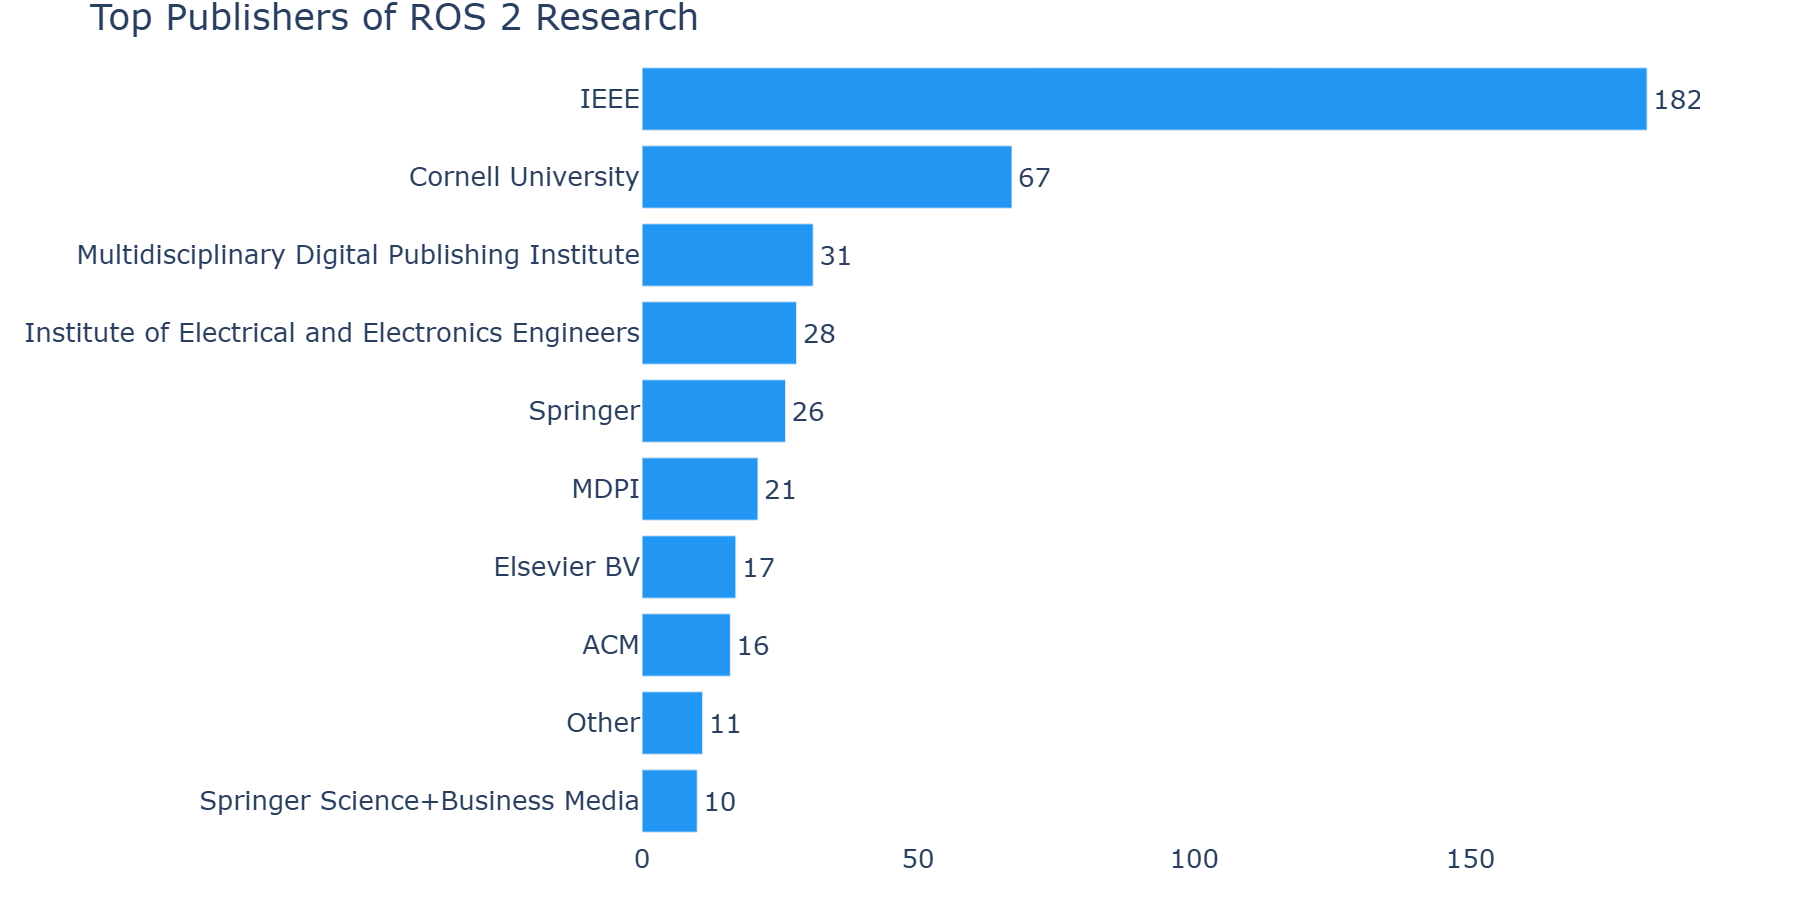
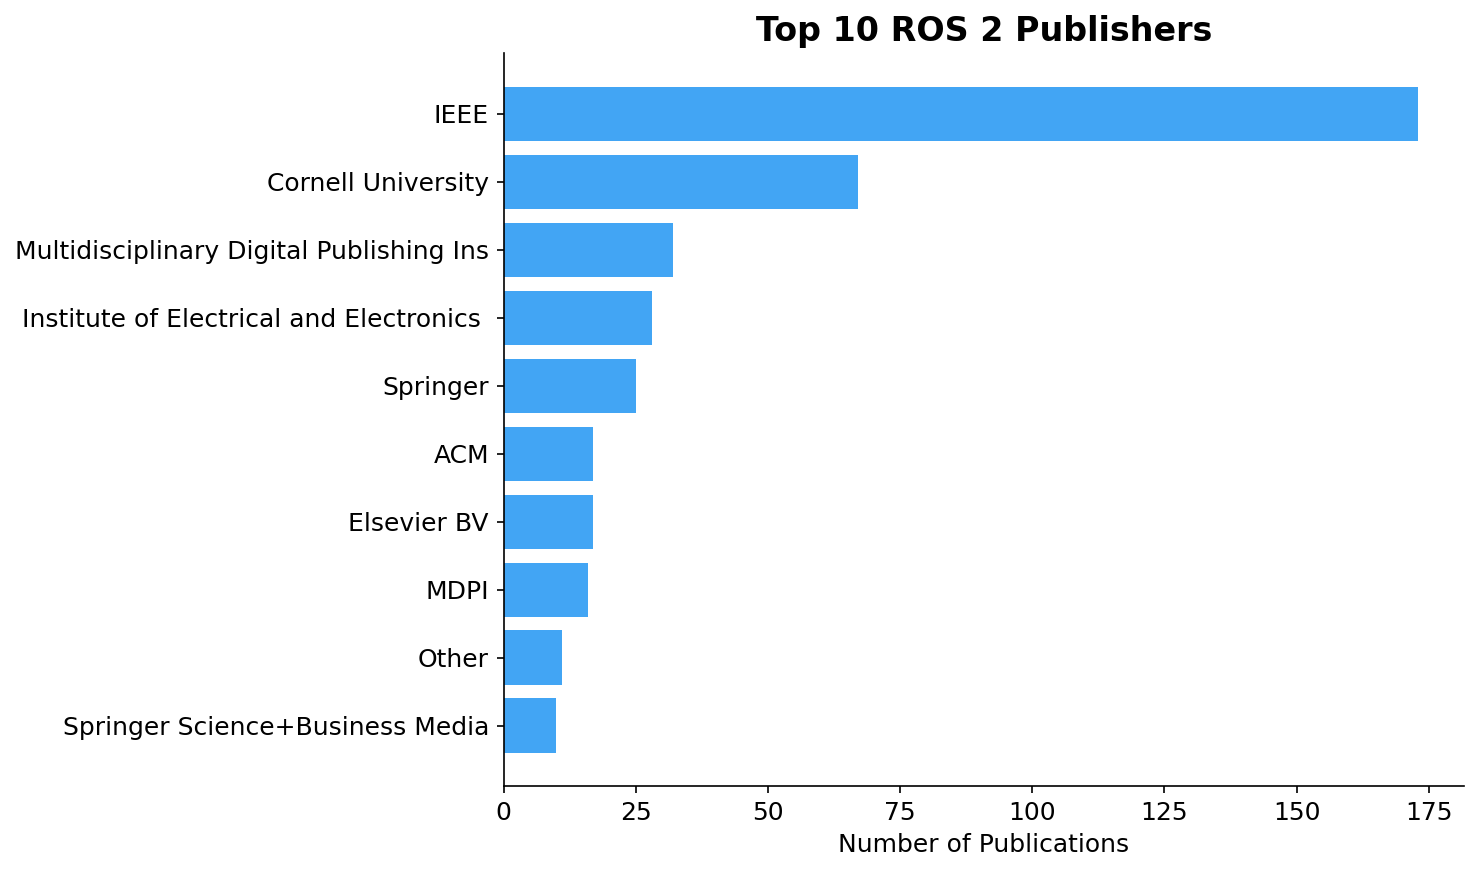
v26 figures + stats

diff --git a/index.html b/index.html
@@ -3,10 +3,20 @@
 <head>
   <meta charset="utf-8">
   <meta name="description"
-        content="ROS 2 in a Nutshell: A Survey - A comprehensive survey of the Robot Operating System 2 ecosystem covering 8,200+ publications.">
+        content="ROS 2 in a Nutshell: A Survey - A comprehensive survey of the Robot Operating System 2 ecosystem covering 8,000+ publications.">
   <meta name="keywords" content="ROS 2, Robot Operating System, Robotics, Survey, DDS, Real-Time, Middleware">
   <meta name="viewport" content="width=device-width, initial-scale=1">
   <title>ROS 2 in a Nutshell: A Survey</title>
+
+  <!-- Open Graph -->
+  <meta property="og:title" content="ROS 2 in a Nutshell: A Survey">
+  <meta property="og:description" content="Comprehensive survey of ROS 2 covering 8,000+ publications, 176 packages, and a curated research database.">
+  <meta property="og:type" content="website">
+  <meta property="og:url" content="https://asmbatati.github.io/awesome-ros/">
+  <meta name="twitter:card" content="summary_large_image">
+  <meta name="twitter:title" content="ROS 2 in a Nutshell: A Survey">
+  <meta name="twitter:description" content="Comprehensive survey of ROS 2 covering 8,000+ publications and a curated research database.">
+  <link rel="icon" type="image/svg+xml" href="./static/images/favicon.svg">
 
   <link href="https://fonts.googleapis.com/css?family=Google+Sans|Noto+Sans|Castoro"
         rel="stylesheet">
@@ -141,12 +151,20 @@
                   <span>Database</span>
                 </a>
               </span>
-              <!-- <span class="link-block">
-                <a href="#" class="external-link button is-normal is-rounded is-dark">
+              <span class="link-block">
+                <a href="https://github.com/asmbatati/awesome-ros"
+                   class="external-link button is-normal is-rounded is-dark">
                   <span class="icon"><i class="fab fa-github"></i></span>
-                  <span>Code</span>
+                  <span>Dataset Repo</span>
                 </a>
-              </span> -->
+              </span>
+              <span class="link-block">
+                <a href="https://github.com/asmbatati/awesome-ros/blob/main/CONTRIBUTING.md"
+                   class="external-link button is-normal is-rounded is-dark">
+                  <span class="icon"><i class="fas fa-hands-helping"></i></span>
+                  <span>Contribute</span>
+                </a>
+              </span>
             </div>
           </div>
         </div>
@@ -162,13 +180,13 @@
       <div class="columns is-centered is-multiline">
         <div class="column is-3">
           <div class="stat-card blue">
-            <div class="stat-number">8,255</div>
+            <div class="stat-number">8,033</div>
             <div class="stat-label">Papers Surveyed</div>
           </div>
         </div>
         <div class="column is-3">
           <div class="stat-card green">
-            <div class="stat-number">1,002</div>
+            <div class="stat-number">960</div>
             <div class="stat-label">ROS 2 Publications</div>
           </div>
         </div>
@@ -270,7 +288,7 @@
   <div class="container is-max-desktop">
     <h2 class="title is-3 has-text-centered">Database Insights</h2>
     <p class="has-text-centered" style="margin-bottom:1.5rem;">
-      Quantitative analysis from our curated database of 8,255 ROS publications.
+      Quantitative analysis from our curated database of 8,033 ROS publications.
     </p>
 
     <div class="columns is-centered">
@@ -320,6 +338,15 @@
         </div>
       </div>
     </div>
+
+    <div class="columns is-centered">
+      <div class="column is-full">
+        <div class="figure-container">
+          <img src="./static/images/subdomains.png" alt="Research Subdomains">
+          <p class="figure-caption">ROS 2 research subdomain distribution across the taxonomy.</p>
+        </div>
+      </div>
+    </div>
   </div>
 </section>
 
@@ -330,11 +357,12 @@
     <h2 class="title is-3 has-text-centered">Key Findings</h2>
     <div class="content has-text-justified">
       <ul>
-        <li><strong>ROS 2 adoption is accelerating:</strong> ROS 2 distributions collectively account for nearly half of all ROS downloads since 2023, with over 1,000 ROS 2-focused publications indexed in our database.</li>
+        <li><strong>ROS 2 adoption is accelerating:</strong> ROS 2 distributions collectively account for nearly half of all ROS downloads since 2023, with 960 ROS 2-focused publications indexed in our database of 8,033 papers.</li>
         <li><strong>Real-time remains an open frontier:</strong> While executors, QoS policies, and PREEMPT_RT integration improve predictability, end-to-end determinism depends on OS configuration, DDS vendor, and executor design. SROS2 adds 0.5&ndash;2 ms per hop.</li>
         <li><strong>The readiness paradox:</strong> ROS 2's architecture surpasses ROS 1, but DDS discovery storms, vendor-specific QoS semantics, and multicast tuning difficulties mean deployment complexity persists. Zenoh (Tier-1 RMW since Jazzy) reduces discovery overhead by 97&ndash;99%.</li>
         <li><strong>Safety-critical domains are underrepresented:</strong> Navigation/SLAM (~28%) and manipulation (~18%) dominate, while surgical robotics and aerospace account for &lt;5% combined.</li>
         <li><strong>Ecosystem growth:</strong> 176 curated community packages span perception, planning, control, simulation, and fleet management.</li>
+        <li><strong>Community-maintained dataset:</strong> The full dataset is publicly available on <a href="https://github.com/asmbatati/awesome-ros" style="color:#2196F3;">GitHub</a> under CC-BY-4.0, welcoming community contributions.</li>
       </ul>
     </div>
   </div>
@@ -358,11 +386,14 @@
 <footer class="footer">
   <div class="container">
     <div class="content has-text-centered">
-      <a class="icon-link" href="#">
+      <a class="icon-link" href="https://www.preprints.org/manuscript/202410.1204">
         <i class="fas fa-file-pdf"></i>
       </a>
       <a class="icon-link" href="https://ric.psu.edu.sa/riotu/ros/">
         <i class="fas fa-database"></i>
+      </a>
+      <a class="icon-link" href="https://github.com/asmbatati/awesome-ros">
+        <i class="fab fa-github"></i>
       </a>
     </div>
     <div class="columns is-centered">

diff --git a/generate_figures.py b/generate_figures.py
@@ -1,0 +1,212 @@
+"""
+Generate project page figures from v26 dataset.
+Outputs PNGs to static/images/ and stats.json.
+"""
+import csv
+import json
+import os
+from collections import Counter
+
+import matplotlib
+matplotlib.use("Agg")
+import matplotlib.pyplot as plt
+import matplotlib.ticker as mticker
+import numpy as np
+
+SRC = r"c:\Users\asmbatati\Desktop\ros_survey_revision\data\ROS2 Related Works_v26.csv"
+FW_SRC = r"c:\Users\asmbatati\Desktop\ros_survey_revision\data\ros2pkgs.csv"
+OUT = os.path.join(os.path.dirname(__file__), "static", "images")
+os.makedirs(OUT, exist_ok=True)
+
+# --- Load data ---
+with open(SRC, encoding="utf-8") as f:
+    rows = list(csv.DictReader(f))
+
+ros1 = [r for r in rows if r.get("ROS Version", "").strip().upper() in ("ROS1", "ROS 1")]
+ros2 = [r for r in rows if r.get("ROS Version", "").strip().upper() in ("ROS2", "ROS 2")]
+both = [r for r in rows if r.get("ROS Version", "").strip().upper() == "BOTH"]
+
+# Color palette
+BLUE = "#2196F3"
+GREEN = "#4CAF50"
+ORANGE = "#FF9800"
+TEAL = "#009688"
+PINK = "#E91E63"
+PURPLE = "#9C27B0"
+
+plt.rcParams.update({
+    "font.family": "sans-serif",
+    "font.size": 12,
+    "axes.spines.top": False,
+    "axes.spines.right": False,
+})
+
+# ============================================================
+# 1. Publication Growth (stacked bar)
+# ============================================================
+years = sorted(set(r.get("Year", "").strip() for r in rows if r.get("Year", "").strip().isdigit()))
+years = [y for y in years if 2009 <= int(y) <= 2025]
+
+ros1_by_year = Counter(r["Year"].strip() for r in ros1 if r["Year"].strip() in years)
+ros2_by_year = Counter(r["Year"].strip() for r in ros2 if r["Year"].strip() in years)
+both_by_year = Counter(r["Year"].strip() for r in both if r["Year"].strip() in years)
+
+r1_counts = [ros1_by_year.get(y, 0) for y in years]
+r2_counts = [ros2_by_year.get(y, 0) + both_by_year.get(y, 0) for y in years]
+
+fig, ax = plt.subplots(figsize=(12, 5))
+x = np.arange(len(years))
+ax.bar(x, r1_counts, label="ROS 1", color=BLUE, alpha=0.85)
+ax.bar(x, r2_counts, bottom=r1_counts, label="ROS 2", color=GREEN, alpha=0.85)
+ax.set_xticks(x)
+ax.set_xticklabels(years, rotation=45, ha="right")
+ax.set_ylabel("Number of Publications")
+ax.set_title("ROS Publication Growth (2009–2025)", fontsize=16, fontweight="bold")
+ax.legend()
+plt.tight_layout()
+fig.savefig(os.path.join(OUT, "publication_growth.png"), dpi=150, bbox_inches="tight")
+plt.close()
+print("1/7 publication_growth.png")
+
+# ============================================================
+# 2. ROS 2 Adoption Rate
+# ============================================================
+adoption_years = [y for y in years if int(y) >= 2017]
+total_by_year = {y: ros1_by_year.get(y, 0) + ros2_by_year.get(y, 0) + both_by_year.get(y, 0) for y in adoption_years}
+ros2_pct = [100 * (ros2_by_year.get(y, 0) + both_by_year.get(y, 0)) / max(total_by_year[y], 1) for y in adoption_years]
+
+fig, ax = plt.subplots(figsize=(10, 5))
+ax.plot(adoption_years, ros2_pct, marker="o", color=GREEN, linewidth=2.5, markersize=8)
+ax.fill_between(adoption_years, ros2_pct, alpha=0.15, color=GREEN)
+ax.set_ylabel("ROS 2 Share (%)")
+ax.set_title("ROS 2 Adoption Rate (% of All Publications)", fontsize=16, fontweight="bold")
+ax.yaxis.set_major_formatter(mticker.PercentFormatter())
+ax.set_ylim(0, max(ros2_pct) * 1.2)
+plt.tight_layout()
+fig.savefig(os.path.join(OUT, "ros2_adoption.png"), dpi=150, bbox_inches="tight")
+plt.close()
+print("2/7 ros2_adoption.png")
+
+# ============================================================
+# 3. ROS 2 Research Domains (donut)
+# ============================================================
+ros2_all = ros2 + both
+domain_counts = Counter(r.get("Research_Domain", "").strip() for r in ros2_all if r.get("Research_Domain", "").strip())
+labels_d = list(domain_counts.keys())
+sizes_d = list(domain_counts.values())
+colors_d = [BLUE, GREEN, ORANGE, PINK][:len(labels_d)]
+
+fig, ax = plt.subplots(figsize=(8, 8))
+wedges, texts, autotexts = ax.pie(
+    sizes_d, labels=labels_d, autopct="%1.1f%%", startangle=90,
+    colors=colors_d, pctdistance=0.78, textprops={"fontsize": 11}
+)
+centre_circle = plt.Circle((0, 0), 0.55, fc="white")
+ax.add_artist(centre_circle)
+ax.set_title("ROS 2 Research Domains", fontsize=16, fontweight="bold", pad=20)
+plt.tight_layout()
+fig.savefig(os.path.join(OUT, "ros2_domains.png"), dpi=150, bbox_inches="tight")
+plt.close()
+print("3/7 ros2_domains.png")
+
+# ============================================================
+# 4. Article Type Distribution (pie)
+# ============================================================
+type_counts = Counter(r.get("Contribution_Type", "").strip() for r in ros2_all if r.get("Contribution_Type", "").strip())
+type_labels = {"APP": "Application", "CORE": "Core ROS", "ECO": "Ecosystem"}
+labels_t = [type_labels.get(k, k) for k in type_counts.keys()]
+sizes_t = list(type_counts.values())
+colors_t = [BLUE, ORANGE, TEAL][:len(labels_t)]
+
+fig, ax = plt.subplots(figsize=(7, 7))
+ax.pie(sizes_t, labels=labels_t, autopct="%1.1f%%", startangle=90,
+       colors=colors_t, textprops={"fontsize": 13})
+ax.set_title("ROS 2 Contribution Types", fontsize=16, fontweight="bold", pad=20)
+plt.tight_layout()
+fig.savefig(os.path.join(OUT, "article_types.png"), dpi=150, bbox_inches="tight")
+plt.close()
+print("4/7 article_types.png")
+
+# ============================================================
+# 5. Top Publishers (horizontal bar)
+# ============================================================
+pub_counts = Counter(r.get("Publisher", "").strip() for r in ros2_all if r.get("Publisher", "").strip())
+top_pubs = pub_counts.most_common(10)
+pub_names = [p[0][:40] for p in reversed(top_pubs)]
+pub_vals = [p[1] for p in reversed(top_pubs)]
+
+fig, ax = plt.subplots(figsize=(10, 6))
+ax.barh(pub_names, pub_vals, color=BLUE, alpha=0.85)
+ax.set_xlabel("Number of Publications")
+ax.set_title("Top 10 ROS 2 Publishers", fontsize=16, fontweight="bold")
+plt.tight_layout()
+fig.savefig(os.path.join(OUT, "publishers.png"), dpi=150, bbox_inches="tight")
+plt.close()
+print("5/7 publishers.png")
+
+# ============================================================
+# 6. Package Categories (horizontal bar)
+# ============================================================
+if os.path.exists(FW_SRC):
+    with open(FW_SRC, encoding="utf-8") as f:
+        fw_rows = list(csv.DictReader(f))
+    
+    # Try different column names for category
+    cat_col = None
+    for candidate in ["robot stack", "infrastructure", "category"]:
+        if any(candidate in (r.keys()) for r in fw_rows[:1]):
+            cat_col = candidate
+            break
+    
+    if cat_col:
+        cat_counts = Counter(r.get(cat_col, "").strip() for r in fw_rows if r.get(cat_col, "").strip())
+        top_cats = cat_counts.most_common(15)
+        cat_names = [c[0][:35] for c in reversed(top_cats)]
+        cat_vals = [c[1] for c in reversed(top_cats)]
+        
+        fig, ax = plt.subplots(figsize=(10, 7))
+        ax.barh(cat_names, cat_vals, color=TEAL, alpha=0.85)
+        ax.set_xlabel("Number of Packages")
+        ax.set_title(f"ROS 2 Packages by {cat_col.title()}", fontsize=16, fontweight="bold")
+        plt.tight_layout()
+        fig.savefig(os.path.join(OUT, "pkg_categories.png"), dpi=150, bbox_inches="tight")
+        plt.close()
+        print("6/7 pkg_categories.png")
+    else:
+        print("6/7 SKIP: no category column found in frameworks")
+else:
+    print("6/7 SKIP: frameworks CSV not found")
+
+# ============================================================
+# 7. Research Subdomain Distribution (horizontal bar, top 15)
+# ============================================================
+sub_counts = Counter(r.get("Research_Subdomain", "").strip() for r in ros2_all if r.get("Research_Subdomain", "").strip())
+top_subs = sub_counts.most_common(15)
+sub_names = [s[0][:40] for s in reversed(top_subs)]
+sub_vals = [s[1] for s in reversed(top_subs)]
+
+fig, ax = plt.subplots(figsize=(10, 7))
+colors_bar = [BLUE, GREEN, ORANGE, PINK, TEAL, PURPLE] * 3
+ax.barh(sub_names, sub_vals, color=colors_bar[:len(sub_names)], alpha=0.85)
+ax.set_xlabel("Number of Publications")
+ax.set_title("ROS 2 Research Subdomains", fontsize=16, fontweight="bold")
+plt.tight_layout()
+fig.savefig(os.path.join(OUT, "subdomains.png"), dpi=150, bbox_inches="tight")
+plt.close()
+print("7/7 subdomains.png")
+
+# ============================================================
+# Stats JSON
+# ============================================================
+stats = {
+    "total_papers": len(rows),
+    "ros2_papers": len(ros2) + len(both),
+    "ros1_papers": len(ros1),
+    "years_covered": f"{years[0]}-{years[-1]}",
+    "total_packages": len(fw_rows) if os.path.exists(FW_SRC) else 176,
+    "domains": len(domain_counts),
+}
+with open(os.path.join(OUT, "stats.json"), "w") as f:
+    json.dump(stats, f, indent=2)
+print(f"\nStats: {json.dumps(stats, indent=2)}")
+print("Done! All figures regenerated.")
